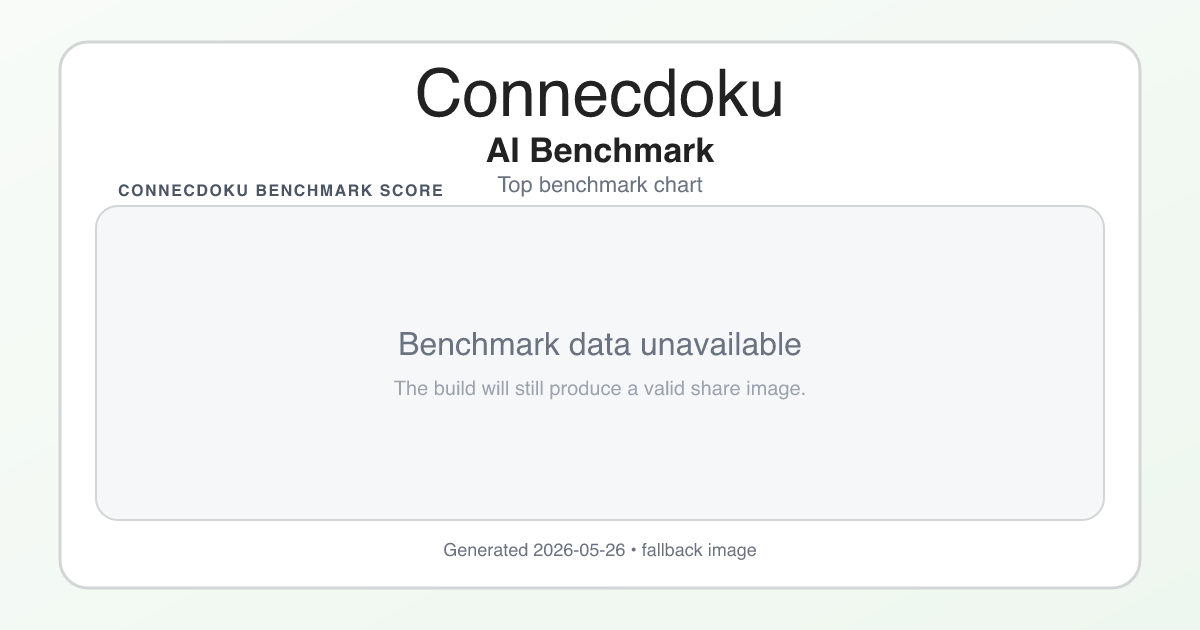
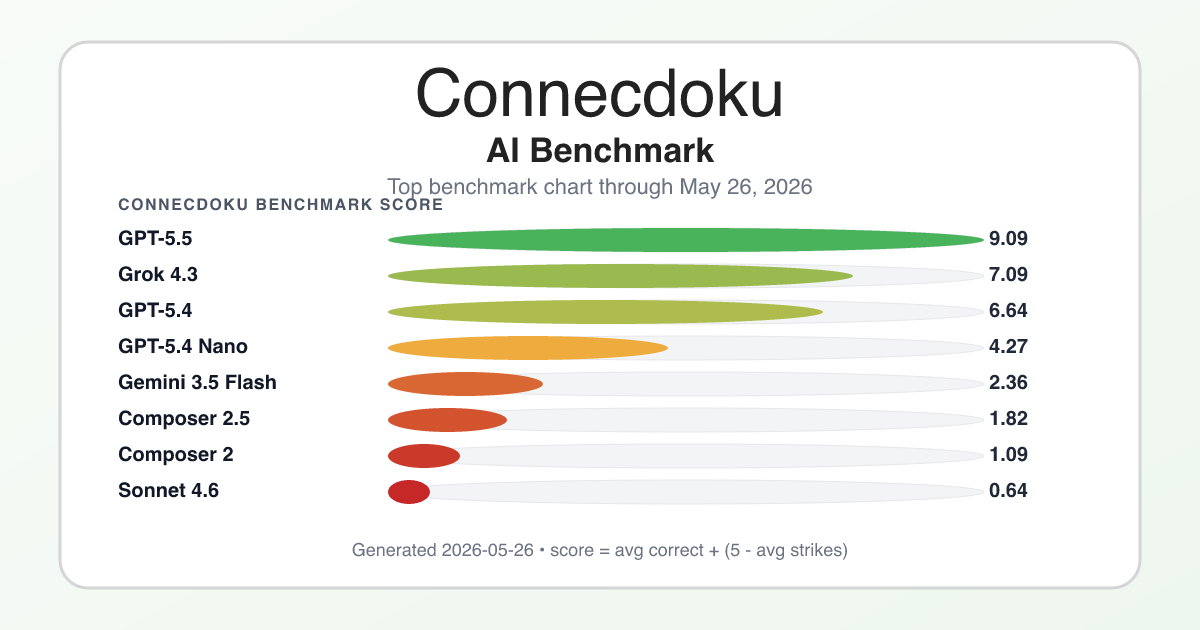
Fix benchmark social card rendering

diff --git a/generate_benchmark_social_preview.js b/generate_benchmark_social_preview.js
@@ -45,13 +45,21 @@ function safeAvg(value) {
 
 function scoreColor(score, minScore, maxScore) {
   const s = Number(score);
-  if (!Number.isFinite(s)) return "hsl(0 0% 82%)";
+  if (!Number.isFinite(s)) return "#d1d5db";
   const lo = Number.isFinite(minScore) ? minScore : s;
   const hi = Number.isFinite(maxScore) ? maxScore : s;
   const span = Math.max(hi - lo, 0.0001);
   const t = Math.max(0, Math.min(1, (s - lo) / span));
-  const hue = 120 * t;
-  return `hsl(${hue.toFixed(1)} 72% 52%)`;
+  const start = { r: 198, g: 40, b: 40 };
+  const mid = { r: 245, g: 194, b: 66 };
+  const end = { r: 73, g: 179, b: 91 };
+  const from = t < 0.5 ? start : mid;
+  const to = t < 0.5 ? mid : end;
+  const localT = t < 0.5 ? t / 0.5 : (t - 0.5) / 0.5;
+  const r = Math.round(from.r + (to.r - from.r) * localT);
+  const g = Math.round(from.g + (to.g - from.g) * localT);
+  const b = Math.round(from.b + (to.b - from.b) * localT);
+  return `#${[r, g, b].map((value) => value.toString(16).padStart(2, "0")).join("")}`;
 }
 
 function computeScoreRows(leaderboard) {
@@ -104,7 +112,7 @@ function buildBars(rows) {
 
   let svg = "";
   topRows.forEach((row, index) => {
-    const y = 216 + index * 36;
+    const y = 228 + index * 36;
     const fillWidth = Math.max(14, Math.round((row.score / widthDenom) * 596));
     svg += `<text x="118" y="${y + 17}" fill="#111827" font-size="20" font-weight="700" font-family="system-ui, -apple-system, 'Segoe UI', Helvetica, Arial, sans-serif">${escapeXml(row.label)}</text>`;
     svg += `<rect x="388" y="${y}" width="596" height="24" rx="999" fill="#f3f4f6" stroke="#e5e7eb" stroke-width="1"/>`;
@@ -134,8 +142,8 @@ function buildSvg({ scoreRows, latestDate, fetchedAt, fetchError }) {
   <rect x="60" y="42" width="1080" height="546" rx="28" fill="#ffffff" stroke="#d4d5d6" stroke-width="3"/>
   <text x="600" y="116" text-anchor="middle" fill="#222" font-size="66" font-weight="400" font-family="'Fredoka One', system-ui, -apple-system, 'Segoe UI', Helvetica, Arial, sans-serif">Connecdoku</text>
   <text x="600" y="162" text-anchor="middle" fill="#222" font-size="34" font-weight="700" font-family="system-ui, -apple-system, 'Segoe UI', Helvetica, Arial, sans-serif">AI Benchmark</text>
-  <text x="600" y="192" text-anchor="middle" fill="#6b7280" font-size="22" font-family="system-ui, -apple-system, 'Segoe UI', Helvetica, Arial, sans-serif">${escapeXml(subtitle)}</text>
-  <text x="118" y="196" fill="#4b5563" font-size="16" font-weight="700" letter-spacing="1.5" font-family="system-ui, -apple-system, 'Segoe UI', Helvetica, Arial, sans-serif">CONNECDOKU BENCHMARK SCORE</text>
+  <text x="600" y="194" text-anchor="middle" fill="#6b7280" font-size="22" font-family="system-ui, -apple-system, 'Segoe UI', Helvetica, Arial, sans-serif">${escapeXml(subtitle)}</text>
+  <text x="118" y="210" fill="#4b5563" font-size="16" font-weight="700" letter-spacing="1.5" font-family="system-ui, -apple-system, 'Segoe UI', Helvetica, Arial, sans-serif">CONNECDOKU BENCHMARK SCORE</text>
   ${buildBars(scoreRows)}
   <text x="600" y="556" text-anchor="middle" fill="#6b7280" font-size="18" font-family="system-ui, -apple-system, 'Segoe UI', Helvetica, Arial, sans-serif">${escapeXml(footer)}</text>
 </svg>`;